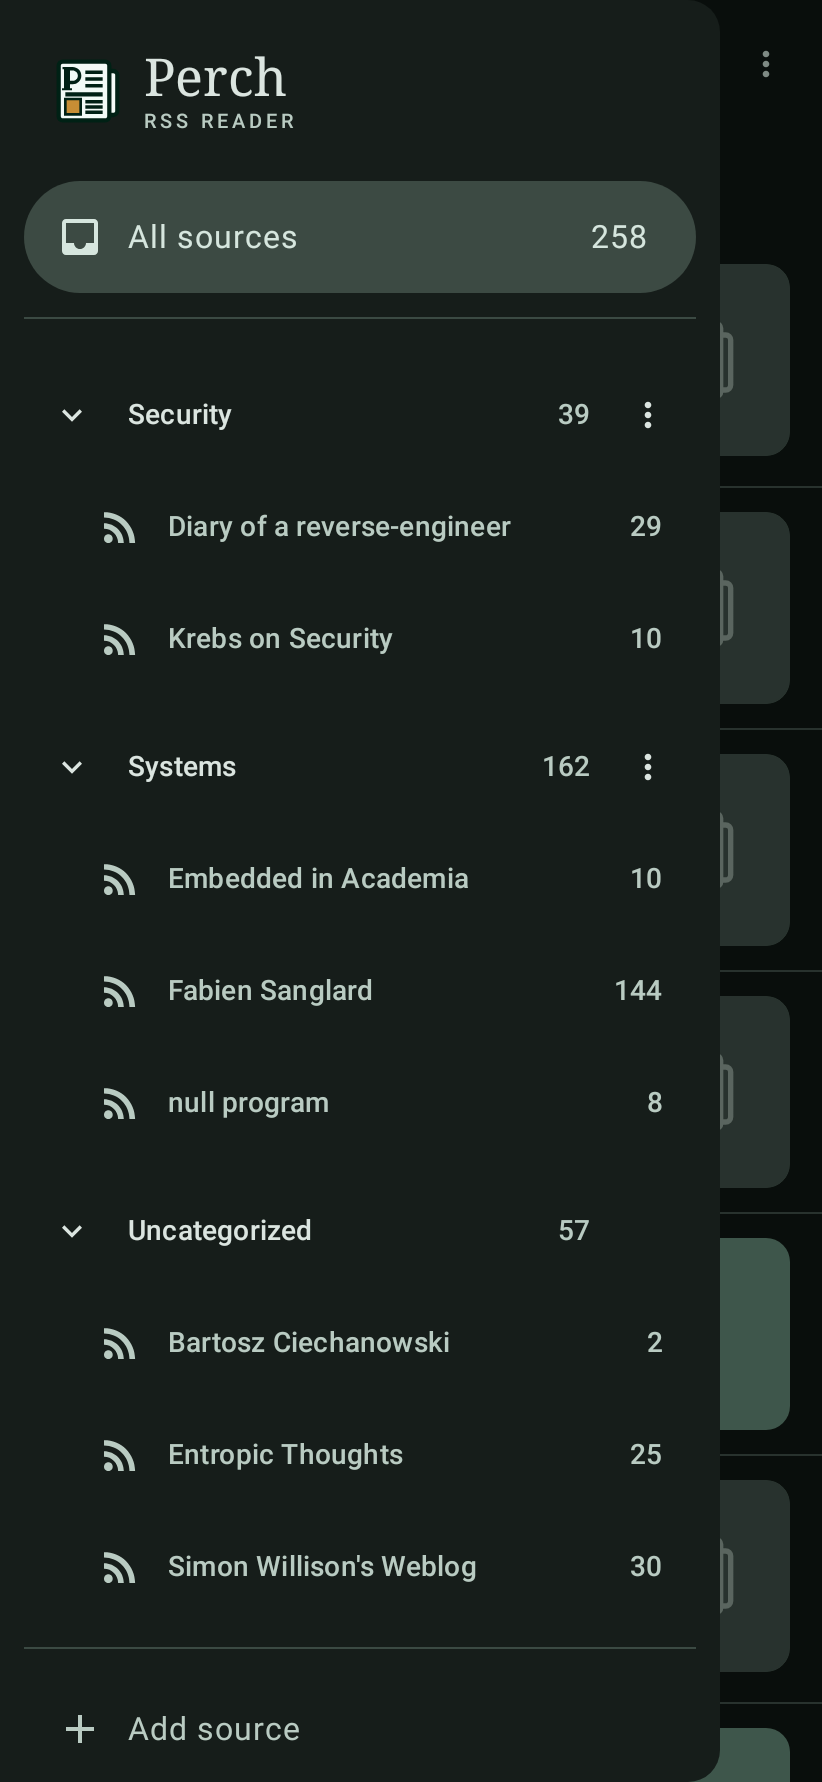
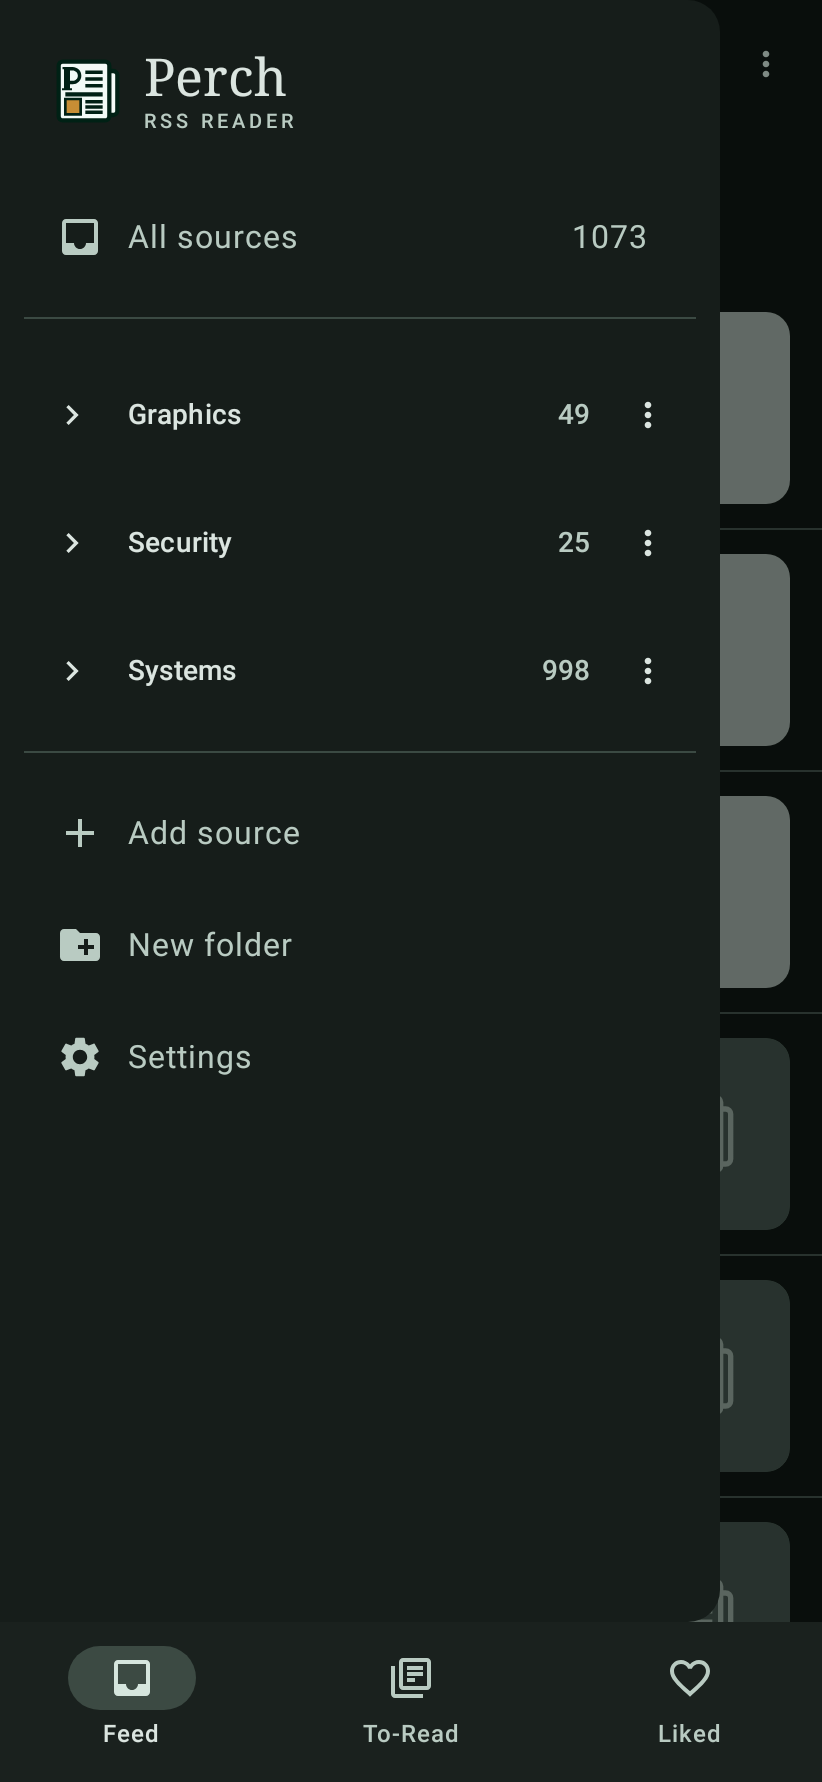
R03: Release v0.5.0
perchVersionCode 5→6, perchVersionName 0.4.0→0.5.0 (app/build.gradle.kts, the
one place they live). assembleRelease BUILD SUCCESSFUL, lintVitalRelease clean.

Verified on the file, not the note: aapt2 dump badging perch-0.5.0.apk reads
versionCode='6' versionName='0.5.0'; apksigner verify --print-certs prints
U02's 61367c0499de5c49c824f4d7ba7b4e692d33960cc57c0622772227a8b7fce489.

In-place upgrade verified through the emulator UI: installed v0.4.0 (from the
v0.4.0 GitHub release), seeded one read+liked entry and one to-read entry,
upgraded (not reinstalled) to the v0.5.0 APK, confirmed all three states
survived the DB v6 migration.

README's screenshot strip refreshed from fresh captures; screenshots/drawer.png
(showed pre-PLAN-5 expanded folders) replaced with the collapsed resting state
and added to the strip. Release notes written by hand through
docs/RELEASE-NOTES.md's template. ./gradlew test: 1669, 0 failures.

diff --git a/NOTES.md b/NOTES.md
@@ -53,58 +53,24 @@
   so a drawer row is `hasClickAction() and !hasTestTag(HomeTestTags.ENTRY)`.
 - **V08/#10: the scoped list is state, not a route.** `HomeScope` is **hoisted into `PerchNavHost`** — third such
   state — `BackStep.LeaveScope` a rung above `ScrollFeedToTop`. `selectTab` is a silent no-op from the article route (`popUpTo(start){saveState}`/`restoreState`, pop first); scoping does not touch the time window.
-- 2026-08-25 — **PLAN-6 (#23) done, archived.** `PageMetadataExtractor` (Y01, standards-only; measured over
-  `fixtures/articles/`: title 17/23, date 5/23). `PageContentExtractor` (Y03: fetch→extract→sanitize→image) is the
-  **one** function `ArticleTextRepository` and `SavedLinkRepository` both call — do not clone it. `feeds.isSynthetic`
-  → DB v6 (Y02), seeded `perch:saved-links` row; every general feed query gained `WHERE isSynthetic = 0`, reached
-  explicitly via `findByUrl(SAVED_LINKS_FEED_URL)`. `SavedLinkRepository.saveLink` (Y03) catches a pasted feed by
-  parsing the fetched bytes, not discovery. `SaveLinkViewModel`/`-Sheet` (Y04). Y05 review: grep gate clean, no doc
-  drift, no test weakened.
-- 2026-08-24/25 — **PLAN-7 (#21) done, archived.** `ArchiveDiscovery`/`BackfillRepository`/
-  `BackfillWorker` (`data/archive/`, `data/repo/`): discovery order RFC 5005 `prev-archive`
-  → `robots.txt Sitemap:` → `/sitemap.xml` (sitemap indexes recursed, depth ≤3, ≤50 fetches,
-  gzip by suffix or magic bytes); post-vs-page is a **dated URL path** *or* a shape
-  **learned from the feed's own entry links** (`learnPostShape`), never a table of engines.
-  Reach (§0.4): `EntryDao.reach(feedId)`, derived, no migration. `plan()` recomputes from
-  discovery + `guidsForFeed` every call (cancel/resume/idempotent are one property); `run()`
-  writes through `PageContentExtractor` (Y03's, shared — `ArticleTextRepository`/
-  `SavedLinkRepository`/`BackfillRepository`, exactly three callers), `DEFAULT_DELAY_MILLIS`
-  apart, `MAX_PAGES=40`, worthwhile past `MATERIALLY_MORE_FACTOR=2`×. UI: `BackfillRunner`
-  seam (`WorkManagerBackfillRunner` real, `FakeBackfillRunner` in tests), the offer dialog,
-  progress strip, §0.4's reach sentence. `fzakaria.com/feed.xml` is a permanent live gate-1
-  source (10 feed entries, 143/133 discovered, real body). Grep gate clean throughout, no
-  test weakened. `./gradlew test`: 1666 at slice close.
-- 2026-08-25 — **PLAN-8 R00/#24: the newest forty, and two true numbers.**
-  `BackfillRepository.plan()` now does `fresh.sortedByDescending { it.lastmod ?: Instant.MIN
-  }.take(MAX_PAGES)` — discovery order is sitemap *document* order, not date order (Z04
-  measured this live), so an unsorted `.take` handed back an arbitrary 40. `BackfillOffer`
-  now carries both `newPostCount` (the archive's true count) and `pageCount` (the capped
-  run); `backfill_offer_body_capped` is a second plural, used only when they differ, keyed
-  on `pageCount`. **Trap hit while writing the RED test:** `DateParser.plausible()` floors
-  at 2000-01-01 and clamps anything more than 24h in the future to "now" — a synthetic
-  `lastmod` has to land inside that window or it silently becomes `null`/collides with other
-  future dates instead of testing the sort. `./gradlew test` (debug+release): 976+693=1669
-  (+2/+1), 0 failures.
-- 2026-08-25 — **PLAN-8 R01: v0.5 read whole, all six questions clean or fixed.** Doc drift:
-  README's feature list gained paste-a-link and archive-backfill; SPEC.md §4 updated to
-  schema v6 (was stuck describing v3). No site-specific parsing: grep gate empty, every
-  `PageMetadata.kt`/`ArchiveDiscovery.kt` rule traced to a standard (OG/JSON-LD/Dublin
-  Core/RFC 5005/9309/sitemaps.org) or a shape learned from the feed itself. No orphans:
-  `collapsedFolders` fully gone, `PageContentExtractor` has one definition and exactly three
-  callers. No test weakened anywhere in `v0.4.0..HEAD`; `FeedCorpusTest` byte-identical to
-  v0.4.0. Suite: **1669** (976 debug + 693 release), grew monotonically from the 1524 floor,
-  every commit touching `src/main` carried its own test. Q6 (a guessed date renders like a
-  known one) is not a one-line fix — filed as **#25** for v0.6.
-- 2026-08-25 — **PLAN-8 R02: live acceptance v5, all 12 gates green.** Two real findings, not
-  flakes. (1) **`quantpedia.com`'s own TLS cert has expired** — confirmed independently with
-  `curl -v` against the system CA store, nothing Perch-side; added to `EXCLUDED_SOURCES`
-  (gate 1 now 38/38). (2) Gate 11/12's own new pasted-link check was wrong: `CollectionTestTags.LIST`
-  tags `PullToRefreshBox`, not the `LazyColumn` inside it, so `performScrollToNode` on that
-  tag never actually scrolls — target `hasScrollToIndexAction()` instead. The pasted article
-  sits last in `SAVED` (`savedAt DESC`, pasted before the shot's other saves), below the
-  fold, so this was a real miss, not a timing flake. `research.checkpoint.com` needs genuine
-  spacing between live runs (202/empty body) — the 10-quiet-minute rule holds; don't shortcut
-  it with a `curl` probe, that spends the allowance the real run needs. Full gate counts:
-  1039 entries pulled, gate 4 75.8%/gate 5 94.3% (both over floor), fzakaria backfill stored
-  40/40, pasted link title real (not URL fallback). `./gradlew test` 1669, 0 failures;
-  `assembleRelease` clean.
+- 2026-08-25 — **v0.5.0 shipped (PLAN-6/#23, PLAN-7/#21, PLAN-8), archived.** `PageContentExtractor`
+  (fetch→extract→sanitize→image) is the **one** function `ArticleTextRepository`,
+  `SavedLinkRepository` and `BackfillRepository` all call — do not clone it. `feeds.isSynthetic`
+  → DB v6, seeded `perch:saved-links` row, every general feed query gained `WHERE isSynthetic =
+  0`. `ArchiveDiscovery`/`BackfillRepository` (`data/archive/`, `data/repo/`): discovery order
+  RFC 5005 `prev-archive` → `robots.txt Sitemap:` → `/sitemap.xml`; post-vs-page is a dated URL
+  path *or* a shape learned from the feed's own entry links, never a table of engines. `plan()`
+  sorts by `lastmod` descending (unknown last) before `.take(MAX_PAGES=40)` — discovery order is
+  sitemap *document* order, not date order, so an unsorted `.take` hands back an arbitrary 40 on
+  a large archive (measured live on `fzakaria.com`, 143/133 discovered). `BackfillOffer` carries
+  both `newPostCount` (true) and `pageCount` (capped) so the offer never claims a small archive
+  is the whole one. `quantpedia.com` excluded from live gate 1 — its own TLS cert has expired,
+  confirmed independently with `curl -v`, nothing Perch-side. Q6 (a guessed date renders like a
+  known one) is real work, not a one-line fix — filed as **#25** for v0.6. `./gradlew test`:
+  **1669** (976 debug + 693 release), 0 failures, grew monotonically from the 1524 v0.4.0 floor.
+- 2026-08-25 — **v0.5.0 released.** `perchVersionCode` 5→6, `perchVersionName` 0.4.0→0.5.0.
+  v0.4.0→v0.5.0 in-place upgrade verified through the emulator UI (Feed/Liked/To-Read all
+  intact across the DB v6 migration) — **the human's real phone is a separate device this
+  session cannot reach; that upgrade is still theirs to run.** README's screenshot strip
+  refreshed from live captures, `screenshots/drawer.png` in particular (showed pre-PLAN-5
+  expanded folders, now the collapsed resting state).

diff --git a/PLAN-8.md b/PLAN-8.md
@@ -156,7 +156,7 @@ place with its read state, likes and to-read queue intact.
         were **opened and looked at**; the default no-network `./gradlew test` still green.
       - Rung: screenshot
 
-- [ ] **R03 — Release v0.5.0.** Bump `perchVersionCode` 5 → **6** and `perchVersionName`
+- [x] **R03 — Release v0.5.0.** Bump `perchVersionCode` 5 → **6** and `perchVersionName`
       `0.4.0` → **`0.5.0`** at `app/build.gradle.kts:12-13`, **the one place they live**.
       - `./gradlew assembleRelease` (runs `lintVitalRelease`). Signing comes from
         `~/.perch/signing.properties` (U02) — **absent it the build silently debug-signs**,
@@ -183,3 +183,18 @@ place with its read state, likes and to-read queue intact.
         clean and pushed; `grep -c '^- \[ \]' PLAN-8.md` returns 0; `gh issue list --state
         open` holds only what is genuinely still open, each with a comment saying why.
       - Rung: build
+      - Outcome (2026-08-25): shipped. `perchVersionCode` 5→6, `perchVersionName` 0.4.0→0.5.0,
+        the one place they live. `assembleRelease` BUILD SUCCESSFUL, `lintVitalRelease` clean.
+        Verified on the file: `aapt2 dump badging perch-0.5.0.apk` reads `versionCode='6'
+        versionName='0.5.0'`; `apksigner verify --print-certs` prints U02's
[1 lines of base64/hex data omitted]
+        verified through the emulator UI: a v0.4.0 install seeded with one read+liked entry and
+        one to-read entry, upgraded (not reinstalled) to the v0.5.0 APK, all three states intact
+        after the DB v6 migration ran — Feed still hid the read entry, Liked and To-Read both
+        still held it. README's screenshot strip refreshed from fresh captures, plus
+        `screenshots/drawer.png` (was the pre-PLAN-5 expanded-folders shot) replaced with the
+        new collapsed resting state and added to the strip. Release notes written by hand
+        through `docs/RELEASE-NOTES.md`'s template from `scripts/release-notes.sh v0.4.0`'s
+        draft — three New bullets (archive backfill #21/#24, paste-a-link #23, drawer opens
+        collapsed #22), one Known issue (#25, filed for v0.6). `./gradlew test`: 1669, 0
+        failures.

diff --git a/README.md b/README.md
@@ -7,12 +7,13 @@
 </p>
 
 <p align="center">
-  <img src="screenshots/home-dark.png" width="15.5%" alt="The Feed, one chronological stream, dark theme">
-  <img src="screenshots/article.png" width="15.5%" alt="Article reader view, the source name in the byline a link into that source">
-  <img src="screenshots/scoped-source-dark.png" width="15.5%" alt="The Feed scoped to a single source, reached from an article's byline">
-  <img src="screenshots/code-dark.png" width="15.5%" alt="Syntax-highlighted code block with a pinned line-number gutter">
-  <img src="screenshots/table-dark.png" width="15.5%" alt="A tabular security advisory rendered with rules and a header row">
-  <img src="screenshots/to-read-dark.png" width="15.5%" alt="The To-Read queue">
+  <img src="screenshots/home-dark.png" width="13.5%" alt="The Feed, one chronological stream, dark theme">
+  <img src="screenshots/drawer.png" width="13.5%" alt="The drawer, folders collapsed by default">
+  <img src="screenshots/article.png" width="13.5%" alt="Article reader view, the source name in the byline a link into that source">
+  <img src="screenshots/scoped-source-dark.png" width="13.5%" alt="The Feed scoped to a single source, its archive reached back past what the feed carries">
+  <img src="screenshots/code-dark.png" width="13.5%" alt="Syntax-highlighted code block with a pinned line-number gutter">
+  <img src="screenshots/table-dark.png" width="13.5%" alt="A tabular security advisory rendered with rules and a header row">
+  <img src="screenshots/to-read-dark.png" width="13.5%" alt="The To-Read queue">
 </p>
 
 ## What Perch is
